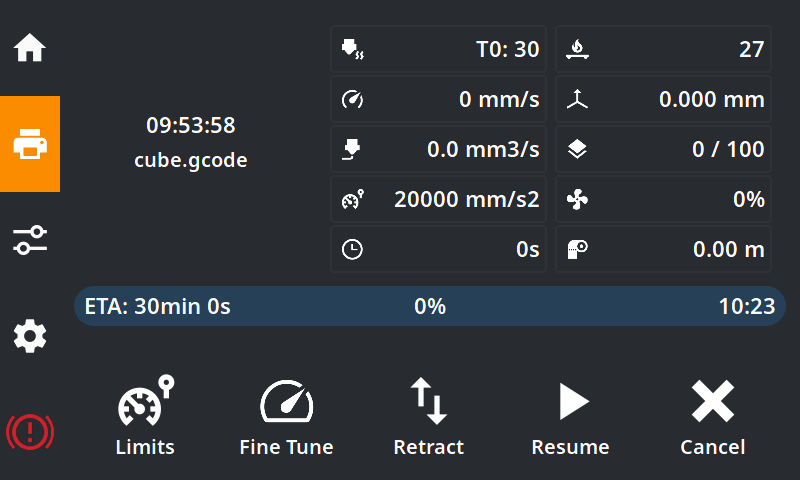
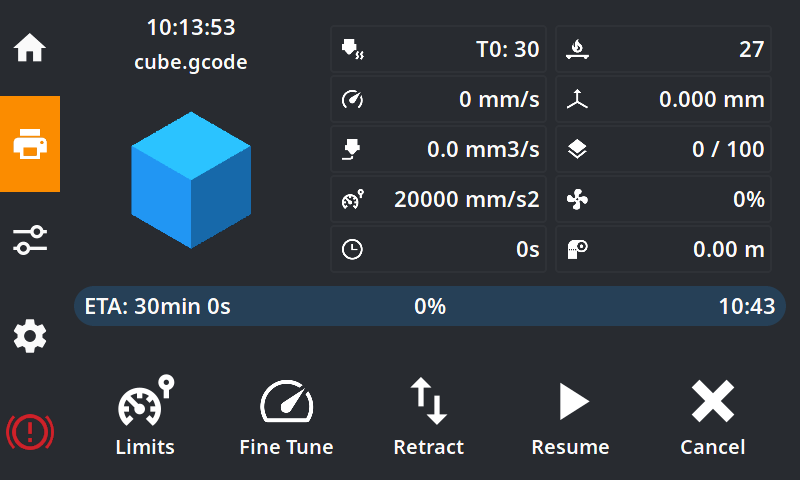
Обновить галерею C5 Pro: Tune, шейперы и кубик (#45)
* Показать калибровку экструдеров и исключение объектов в README

* Show Tune calibrations and Exclude Object in README

* Provide shared cube thumbnail to C5 Pro gallery via FakeMoonraker

* Показать шейперы и кубик при выборе и печати

* Show Input Shaper and cube preview/printing in README

* Temporarily render cube thumbnails for the C5 Pro documentation PR

* Publish verified LVGL cube screenshots without rebuilding tests

* Download captured screenshots to temporary directory before publishing

* Rebuild and commit verified cube screenshots in one Actions job

* Show shared cube thumbnail on file selection and printing

* Remove one-time gallery capture workflow; keep manual rebuild only

---------

Changed region(s): [[0.1562, 0.2188, 0.3125, 0.5312], [0.1562, 0.0312, 0.3125, 0.1562], [0.9375, 0.625, 0.9688, 0.6562]]

diff --git a/tests/screenshot_capture_test.cpp b/tests/screenshot_capture_test.cpp
@@ -41,11 +41,14 @@ TEST_CASE("Screenshot: scripted") {
   FakeMoonraker moonraker(app::fixture(c5pro ? "c5pro_basic.json" : "ad5m_basic.json"));
   PrintFile sample;
   sample.path = "cube.gcode";
-  FakePrinter printer(moonraker, {sample}, FakePrinter::Options{});
+  FakePrinter::Options options;
+  std::string root;
   if (c5pro) {
-    std::string root = "/tmp/guppy-gallery-XXXXXX";
+    root = "/tmp/guppy-gallery-XXXXXX";
     REQUIRE(mkdtemp(root.data()) != nullptr);
     REQUIRE(mkdir((root + "/mod_data").c_str(), 0755) == 0);
+    REQUIRE(mkdir((root + "/gcodes").c_str(), 0755) == 0);
+    options.gcodes_dir = root + "/gcodes";
     for (const char *axis : {"X", "Y"}) {
       const std::string filename = std::string("resonances_") + axis + ".png";
       std::ifstream in(app::fixture(filename), std::ios::binary);
@@ -54,10 +57,14 @@ TEST_CASE("Screenshot: scripted") {
       out << in.rdbuf();
       REQUIRE(out.good());
     }
+  }
+  FakePrinter printer(moonraker, {sample}, options);
+  if (c5pro) {
     moonraker.set_result("server.files.roots", json::array({
       {{"name", "config"}, {"path", root}, {"permissions", "rw"}},
-      {{"name", "gcodes"}, {"path", "/data"}, {"permissions", "rw"}},
+      {{"name", "gcodes"}, {"path", options.gcodes_dir}, {"permissions", "rw"}},
     }));
+    REQUIRE(std::ifstream(options.gcodes_dir + "/.thumbs/cube-300x300.png").good());
   }
   app::start(moonraker, settings);
   app::wait_ready(moonraker);

diff --git a/README_RU.md b/README_RU.md
@@ -36,15 +36,19 @@ DISPLAY_ON
 
 Снимки интерфейса C5 Pro (четыре экструдера) сделаны в тестовом LVGL-стенде при разрешении 800×480. На реальном принтере набор кнопок зависит от конфигурации Z-Mod.
 
-| Главная | Печать |
+| Главная | Tune — калибровка экструдеров и VFA |
 |:--|:--|
-| ![Главная C5 Pro](docs/screenshots/c5pro/home.png) | ![Файлы C5 Pro](docs/screenshots/c5pro/print.png) |
+| ![Главная C5 Pro](docs/screenshots/c5pro/home.png) | ![Tune C5 Pro: калибровка экструдеров и VFA](docs/screenshots/c5pro/tune.png) |
 | **Вентиляторы** | **PID** |
 | ![Вентиляторы C5 Pro](docs/screenshots/c5pro/fans.png) | ![PID C5 Pro](docs/screenshots/c5pro/pid.png) |
 | **Экструдеры** | **Карта стола** |
 | ![Экструдеры C5 Pro](docs/screenshots/c5pro/extrude.png) | ![Карта стола C5 Pro](docs/screenshots/c5pro/bed-mesh.png) |
-| **Во время печати** | **Настройки** |
-| ![Экран печати C5 Pro](docs/screenshots/c5pro/print-status.png) | ![Настройки C5 Pro](docs/screenshots/c5pro/settings.png) |
+| **Выбор файла** | **Во время печати** |
+| ![Выбор cube.gcode и миниатюра кубика](docs/screenshots/c5pro/file-preview.png) | ![Печать кубика C5 Pro](docs/screenshots/c5pro/print-status.png) |
+| **Настройки** | **Исключение объектов** |
+| ![Настройки C5 Pro](docs/screenshots/c5pro/settings.png) | ![Графическое исключение объектов C5 Pro](docs/screenshots/c5pro/exclude-map.png) |
+| **Input Shaper** | |
+| ![Графики X/Y в Input Shaper C5 Pro](docs/screenshots/c5pro/input-shaper.png) | |
 
 [Все экраны C5 Pro](docs/c5pro-screenshots.md)
 

diff --git a/README.md b/README.md
@@ -36,15 +36,19 @@ See [the Z-Mod DISPLAY_OFF documentation](https://wiki.zmod.link/System/#display
 
 Captured from the 800×480 LVGL test framebuffer using the C5 Pro configuration with four extruders. Controls on a real printer depend on Z-Mod and Klipper configuration.
 
-| Home | Files |
+| Home | Tune — extruder and VFA calibration |
 |:--|:--|
-| ![C5 Pro home](docs/screenshots/c5pro/home.png) | ![C5 Pro files](docs/screenshots/c5pro/print.png) |
+| ![C5 Pro home](docs/screenshots/c5pro/home.png) | ![C5 Pro Tune with extruder and VFA calibration](docs/screenshots/c5pro/tune.png) |
 | **Fans** | **PID** |
 | ![C5 Pro fans](docs/screenshots/c5pro/fans.png) | ![C5 Pro PID](docs/screenshots/c5pro/pid.png) |
 | **Extruders** | **Bed Mesh** |
 | ![C5 Pro extruders](docs/screenshots/c5pro/extrude.png) | ![C5 Pro Bed Mesh](docs/screenshots/c5pro/bed-mesh.png) |
-| **Printing** | **Settings** |
-| ![C5 Pro printing](docs/screenshots/c5pro/print-status.png) | ![C5 Pro settings](docs/screenshots/c5pro/settings.png) |
+| **File selection** | **Printing** |
+| ![cube.gcode with a cube thumbnail](docs/screenshots/c5pro/file-preview.png) | ![C5 Pro printing the same cube](docs/screenshots/c5pro/print-status.png) |
+| **Settings** | **Exclude Object** |
+| ![C5 Pro settings](docs/screenshots/c5pro/settings.png) | ![C5 Pro graphical object exclusion](docs/screenshots/c5pro/exclude-map.png) |
+| **Input Shaper** | |
+| ![C5 Pro Input Shaper X/Y graphs](docs/screenshots/c5pro/input-shaper.png) | |
 
 [Full C5 Pro screen gallery](docs/c5pro-screenshots.md)
 
